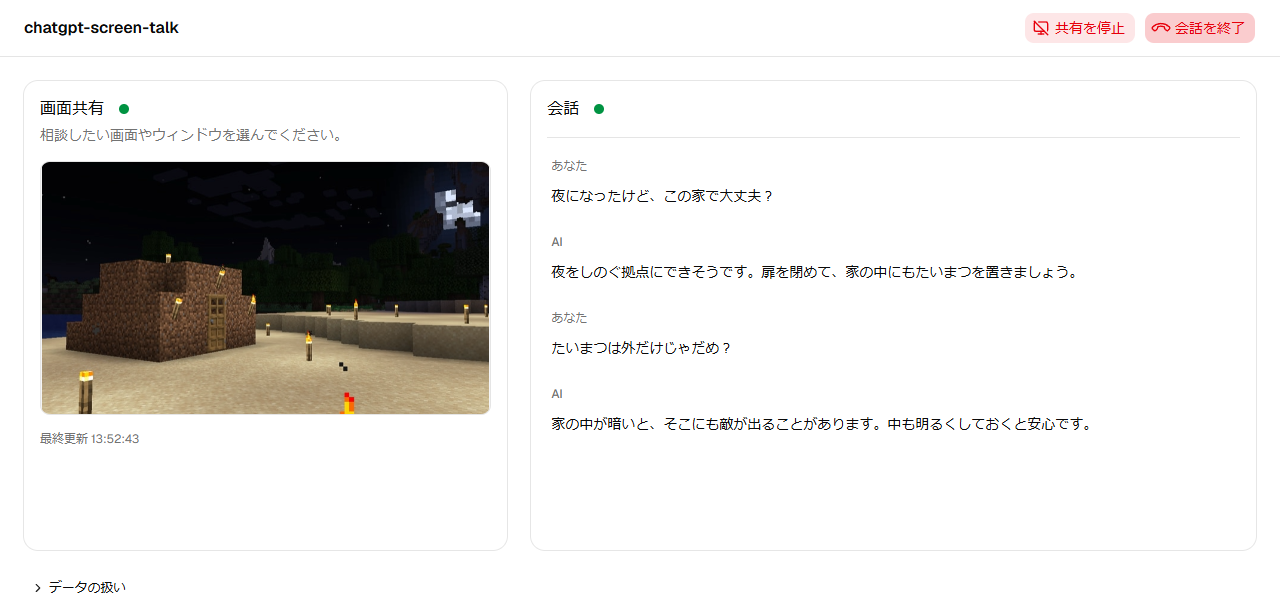
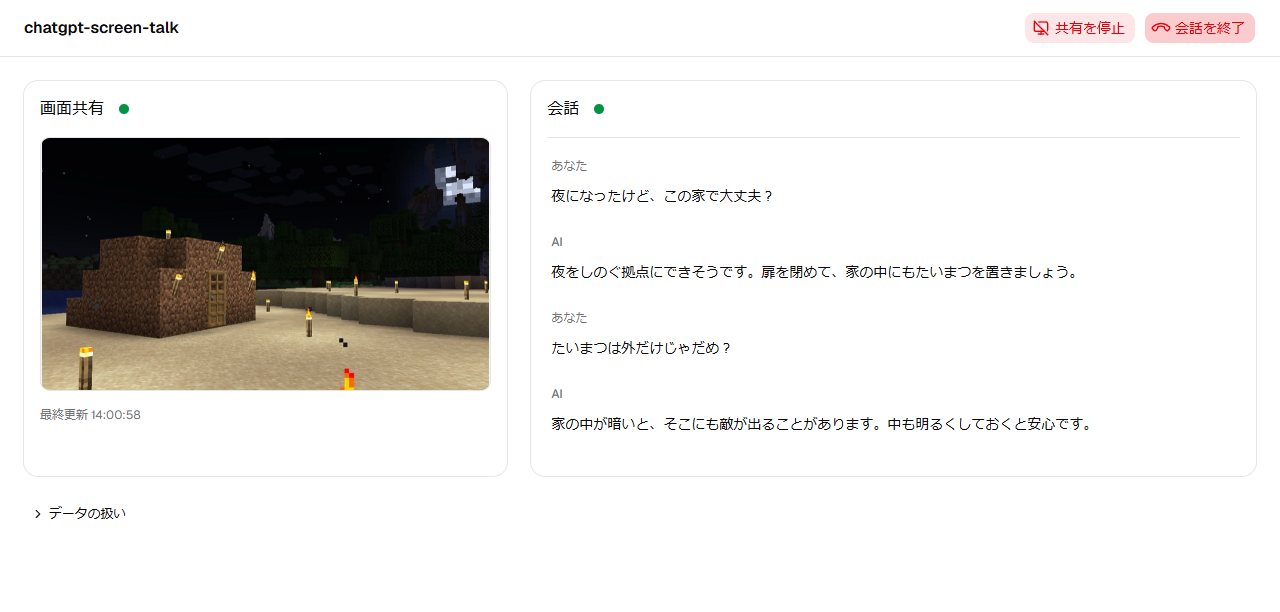
画面共有カードの説明文を削除する

diff --git a/src/client/App.tsx b/src/client/App.tsx
@@ -11,7 +11,6 @@ import { Button } from "@/components/ui/button";
 import {
   Card,
   CardContent,
-  CardDescription,
   CardHeader,
   CardTitle,
 } from "@/components/ui/card";
@@ -146,9 +145,6 @@ export default function App() {
                   message={screenDetails}
                 />
               </CardTitle>
-              <CardDescription className="hidden md:block">
-                相談したい画面やウィンドウを選んでください。
-              </CardDescription>
             </CardHeader>
             <CardContent className="screen-content flex flex-1 flex-col gap-4">
               <div className="screen-preview relative flex aspect-video items-center justify-center overflow-hidden rounded-lg border bg-muted">
